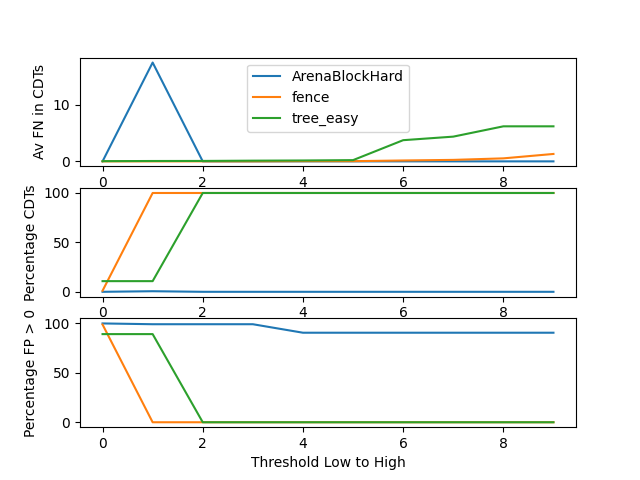
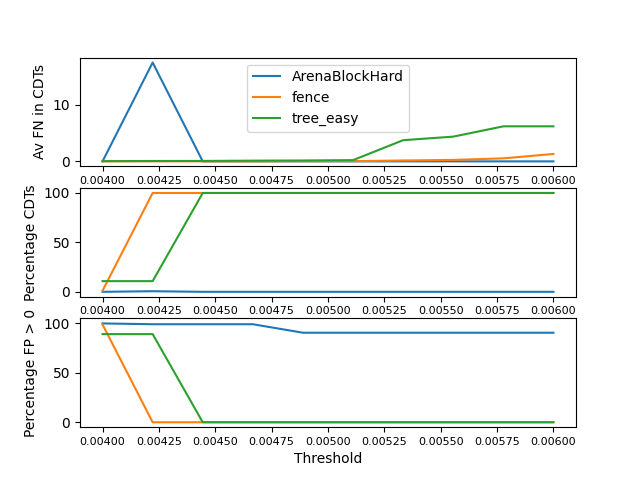
Update Bootstrap Figure Labels

diff --git a/polycraft_nov_det/baselines/eval_episode.py b/polycraft_nov_det/baselines/eval_episode.py
@@ -102,7 +102,9 @@ def eval_from_save(output_folder):
     m1_ax.set_ylabel("Av FN in CDTs")
     m2_ax.set_ylabel("Percentage CDTs")
     m21_ax.set_ylabel("Percentage FP > 0")
-    m21_ax.set_xlabel("Threshold Low to High")
+    m21_ax.set_xlabel("Threshold")
+    for ax in (m1_ax, m2_ax, m21_ax):
+        ax.tick_params(axis='x', labelsize=8)
 
     # bootstrap to generate test trials
     for nov_type, (test_scores, test_targets) in nov_to_test_tuple.items():
@@ -148,9 +150,9 @@ def eval_from_save(output_folder):
             percent_cdts[i] = percent_cdt
             percent_fps[i] = percent_fp
         # plot results
-        m1_ax.plot(range(num_interps), av_fns, label=nov_type)
-        m2_ax.plot(range(num_interps), percent_cdts, label=nov_type)
-        m21_ax.plot(range(num_interps), percent_fps, label=nov_type)
+        m1_ax.plot(nov_threshs, av_fns, label=nov_type)
+        m2_ax.plot(nov_threshs, percent_cdts, label=nov_type)
+        m21_ax.plot(nov_threshs, percent_fps, label=nov_type)
     m1_ax.legend()
     fig.savefig(output_folder / "bootstrap.png")
     return
